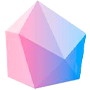
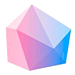
photos + updated stones

diff --git a/main_part.py b/main_part.py
@@ -23,10 +23,12 @@ def load_im(name):
 def start_game():
     pygame.init()
 
-    screen = pygame.display.set_mode((1000, 1000))
+    screen = pygame.display.set_mode((1000, 800))
     screen.fill((255, 255, 255))
     running = True
     bg = Background('pictures/cave.png', [0, 0])
+    #  right = Background('pictures/right.png', [800, 646])
+    #  left = Background('pictures/left.png', [0, 650])
 
     mouse_sprites = pygame.sprite.Group()
     mouse = pygame.sprite.Sprite()
@@ -34,12 +36,23 @@ def start_game():
     mouse.rect = mouse.image.get_rect()
     mouse_sprites.add(mouse)
 
-    # numb = random.randint(0, 3)
-    numb = 0
+    right = pygame.sprite.Sprite()
+    right.image = load_im("pictures/right.png")
+    right.rect = right.image.get_rect()
+
+    left = pygame.sprite.Sprite()
+    left.image = load_im("pictures/left.png")
+    left.rect = left.image.get_rect()
+
+    numb = random.randint(0, 3)
     numb_move = random.randint(2, 5)
 
     stones_sprites_group = []
     stones_sp = []
+
+    ky = 0
+
+    player = 1
 
     class Stone(pygame.sprite.Sprite):
         images = load_im("pictures/diamond.png")
@@ -52,16 +65,37 @@ def start_game():
     for i in range(n_stone[numb]):
         stones_sprites_group.append(pygame.sprite.Group())
         stones_sp.append(Stone(stones_sprites_group[i]))
+
     if numb == 0:
-        i = 0
-        k = 0
-        for j in range(0, 3):
-            k = - j
-            while k != j:
-                stones_sp[i].rect.x = 450 + 70 * (k + j) - 64 * j / 2
-                stones_sp[i].rect.y = 550 - 70 * (3 - j)
-                i += 1
-                k += 1
+        ky = 350
+
+    if numb == 1:
+        ky = 300
+
+    if numb == 2:
+        ky = 200
+
+    if numb == 3:
+        ky = 150
+
+    ki = 0
+    start_x = 450
+    kx = 450
+    a_diamond = 90
+    left_diamond = len(stones_sp)
+    current_d = 1
+    while (1):
+        for i in range(current_d):
+            stones_sp[ki].rect.x = kx
+            stones_sp[ki].rect.y = ky
+            kx += a_diamond
+            ki += 1
+            left_diamond -= 1
+        ky += a_diamond
+        kx = start_x - (a_diamond / 2) * current_d
+        current_d += 1
+        if (current_d > left_diamond):
+            break
 
     pygame.mouse.set_visible(False)
 
@@ -81,6 +115,16 @@ def start_game():
                 for i in range(n_stone[numb]):
                     if stones_sp[i].rect.collidepoint(event.pos):
                         stones_sp[i].kill()
+                        screen.blit(bg.image, bg.rect)
+                        for i in range(n_stone[numb]):
+                            stones_sprites_group[i].draw(screen)
+                        mouse_sprites.draw(screen)
+        if player == 1:
+            screen.blit(left.image, left.rect)
+        else:
+            screen.blit(right.image, right.rect)
+        left.rect.x = 0
+        left.rect.y = 650
         pygame.display.flip()
     pygame.quit()
 
